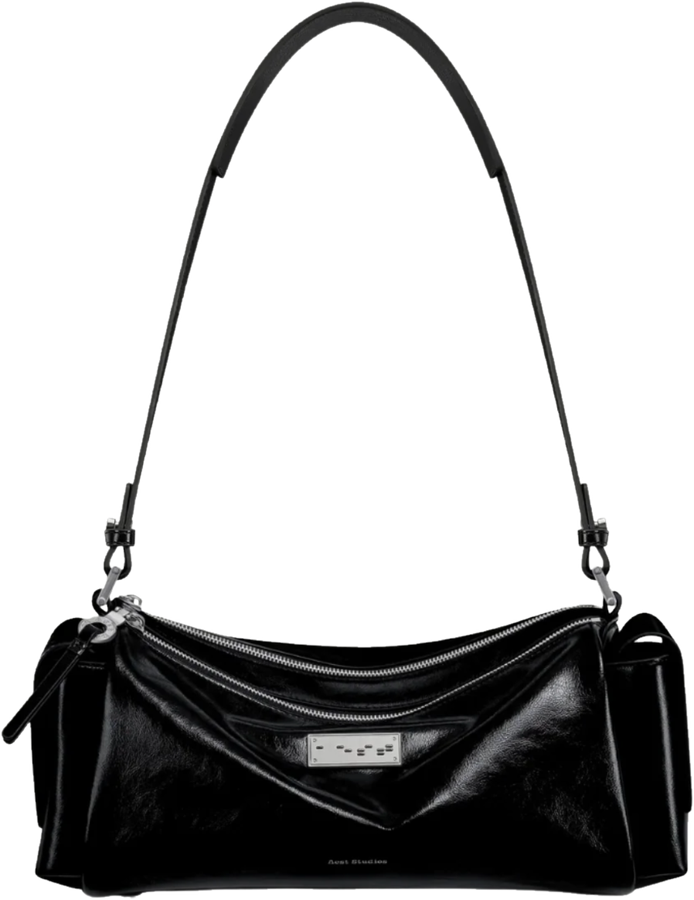
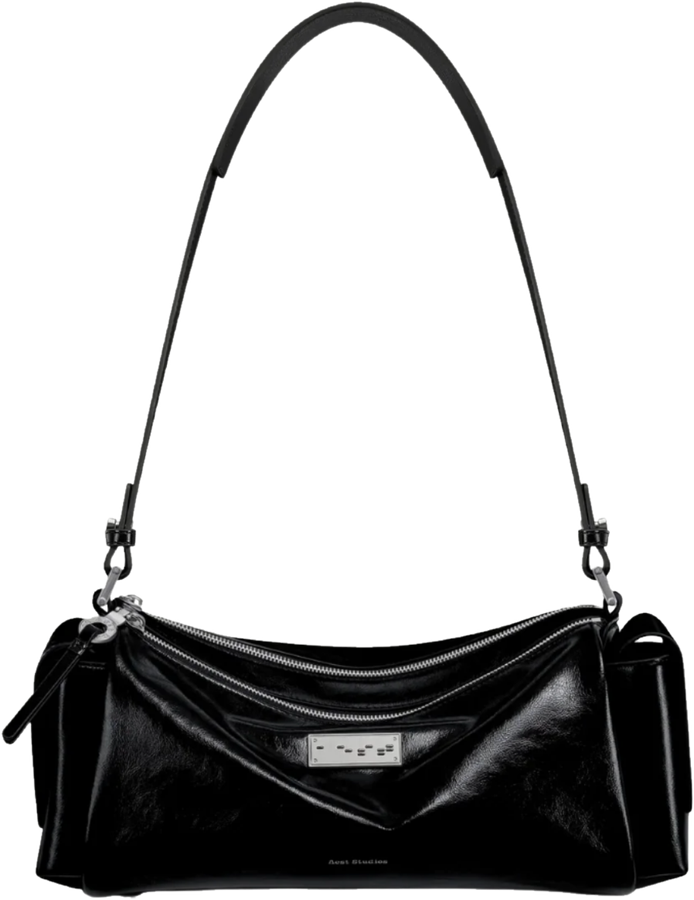
The pass carries her childhood photograph
Recut the bag from the higher-resolution source, and corrected the pass copy,
which still promised the three-task hub that no longer exists.

diff --git a/src/scenes/Pass.jsx b/src/scenes/Pass.jsx
@@ -95,10 +95,10 @@ export default function Pass() {
           <div className="mt-4 flex justify-center">
             <div style={{ width: '74%' }}>
               <Photo
-                src={CONFIG.photos.her}
+                src={CONFIG.photos.baby}
                 alt={CONFIG.name}
-                placeholder="HER PHOTO"
-                objectPosition="center 22%"
+                placeholder="CHILDHOOD PHOTO"
+                objectPosition="center 45%"
                 className="w-full block"
                 style={{ aspectRatio: '1 / 1', borderRadius: 1 }}
               />
@@ -128,7 +128,7 @@ export default function Pass() {
         transition={{ delay: 0.5, duration: 0.6 }}
       >
         <p className="serif-it text-center" style={{ fontSize: 16, color: 'var(--ink-60)', maxWidth: '20em' }}>
-          Wear it at all times. There are three things to do and two things to keep.
+          Wear it at all times. Read to the back, where two of the pages are yours to keep.
         </p>
         <button className="btn" onClick={() => next()}>
           Enter the issue

diff --git a/src/config.js b/src/config.js
@@ -30,6 +30,8 @@ export const CONFIG = {
     bagOpen: 'photos/bag-open.png',
     // Her mid sheet-mask, for the spa advertorial. Funny on purpose.
     mask: 'photos/mask.jpg',
+    // A childhood photograph, for the "this is who turns 28" pass.
+    baby: 'photos/baby.jpg',
   },
 
   // Where the mouth of the open bag sits, as percentages of that photo.
